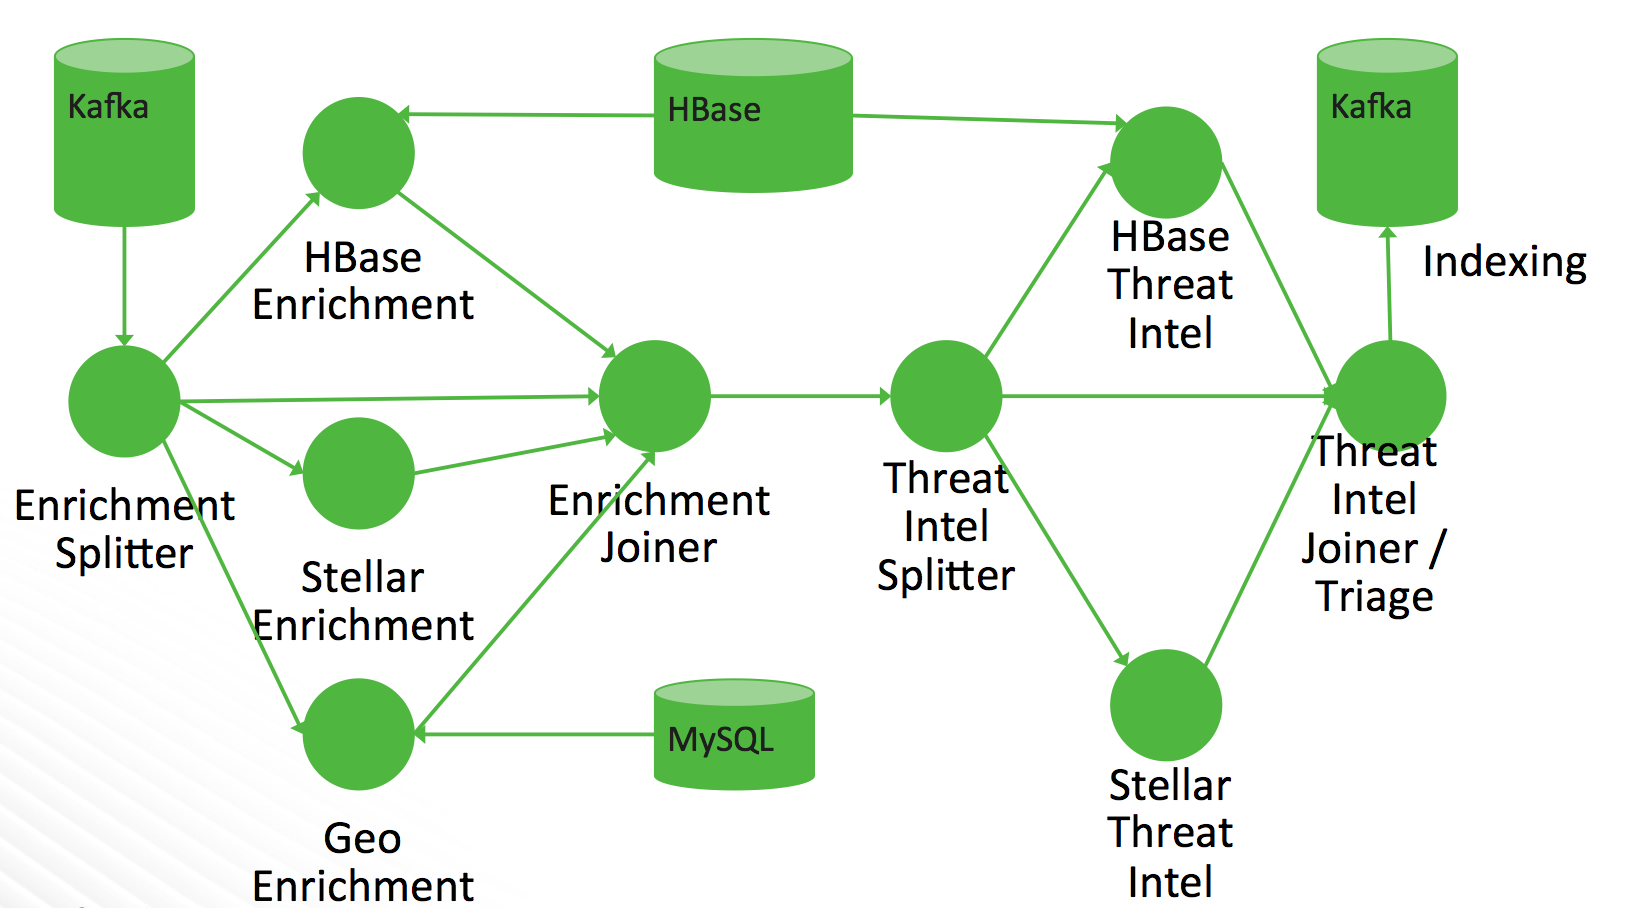
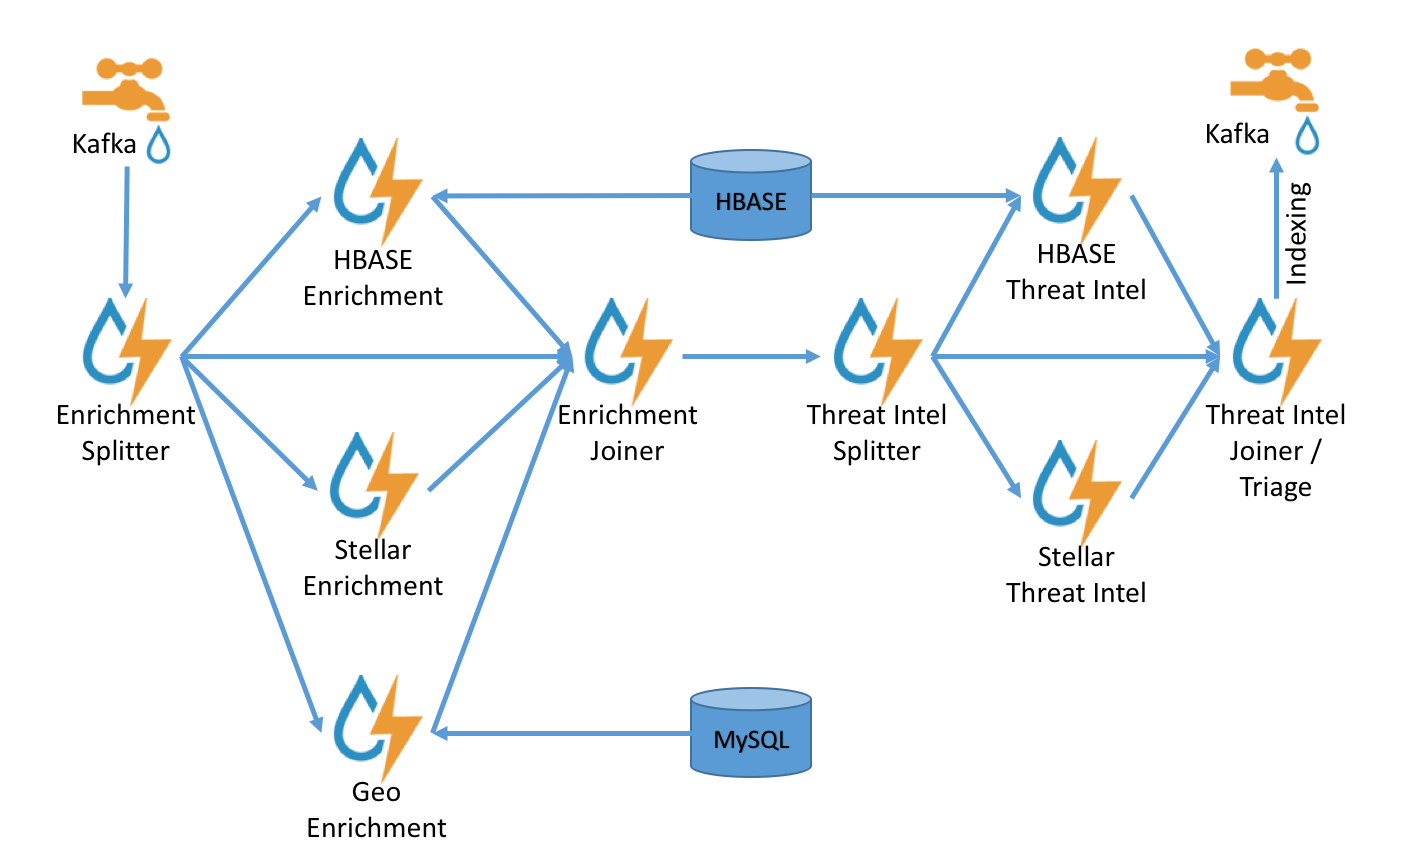
METRON-436: Updated architecture diagrams for Metron READMEs (anandsubbu via cestella) closes apache/incubator-metron#263

Changed region(s): [[0.0, 0.0312, 0.9979, 0.9988], [0.6549, 0.6243, 0.686, 0.6867]]

diff --git a/metron-platform/metron-indexing/README.md b/metron-platform/metron-indexing/README.md
@@ -17,6 +17,8 @@ This config is variable by sensor type.
 
 ## Indexing Architecture
 
+![Architecture](indexing_arch.png)
+
 The indexing topology is extremely simple.  Data is ingested into kafka
 and sent to 
 * An indexing bolt configured to write to either elasticsearch or Solr
